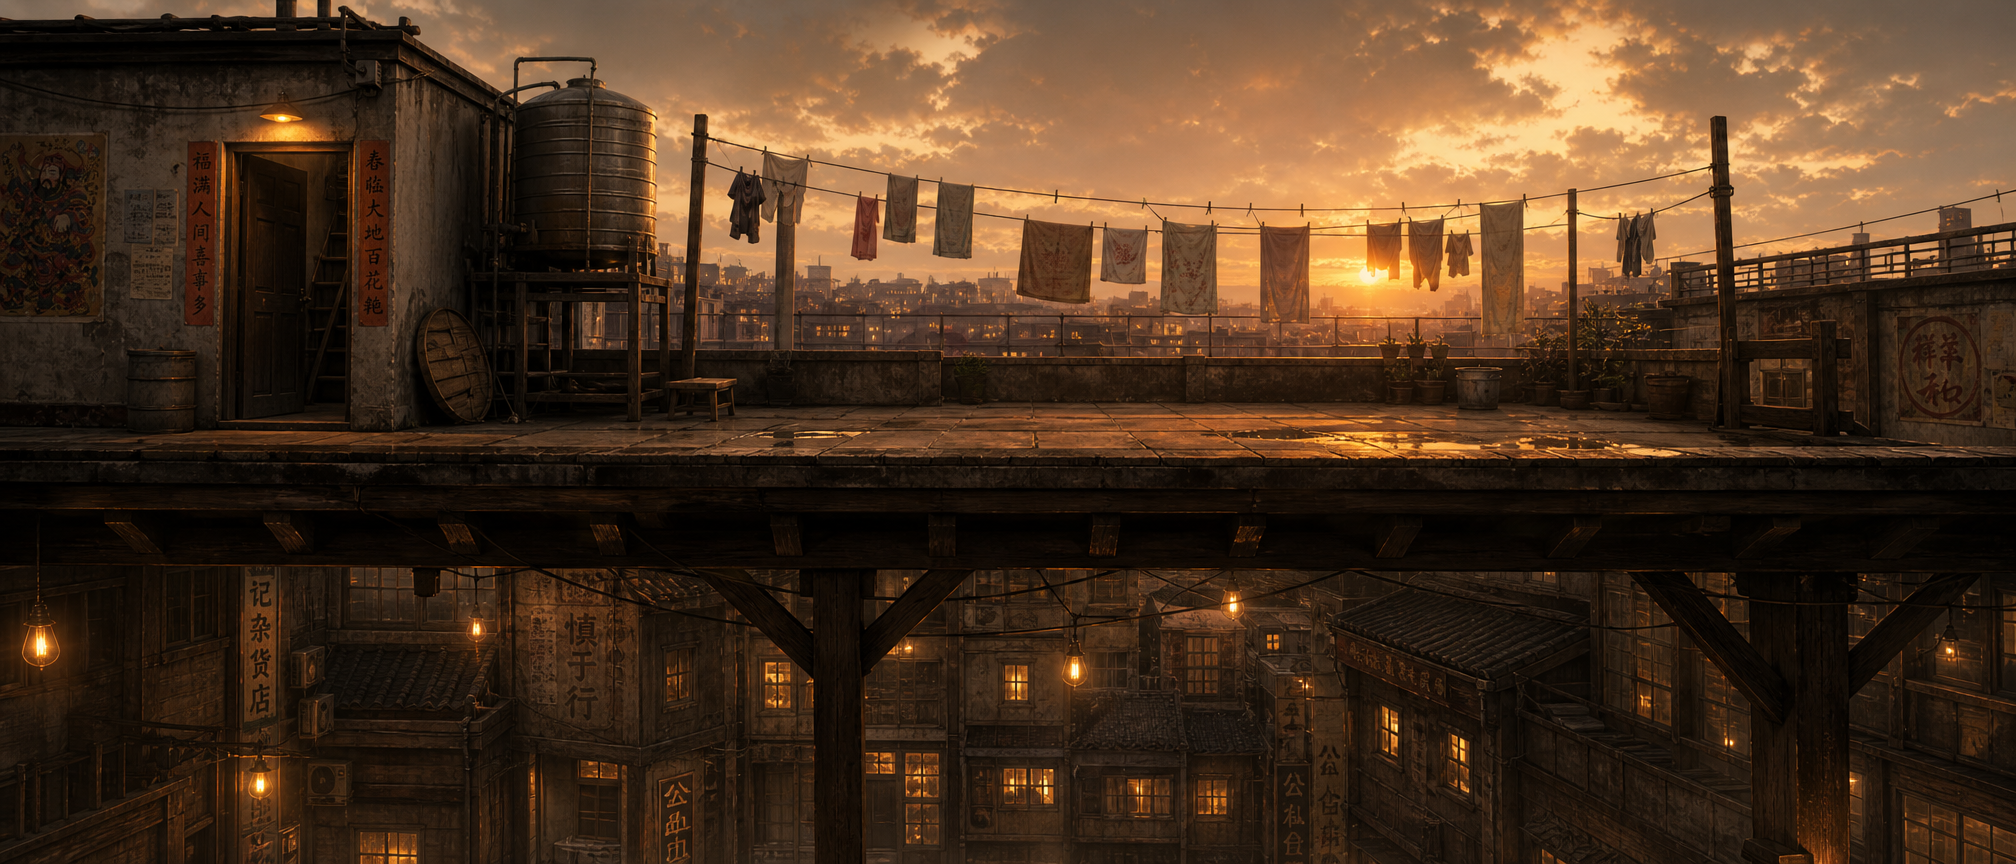
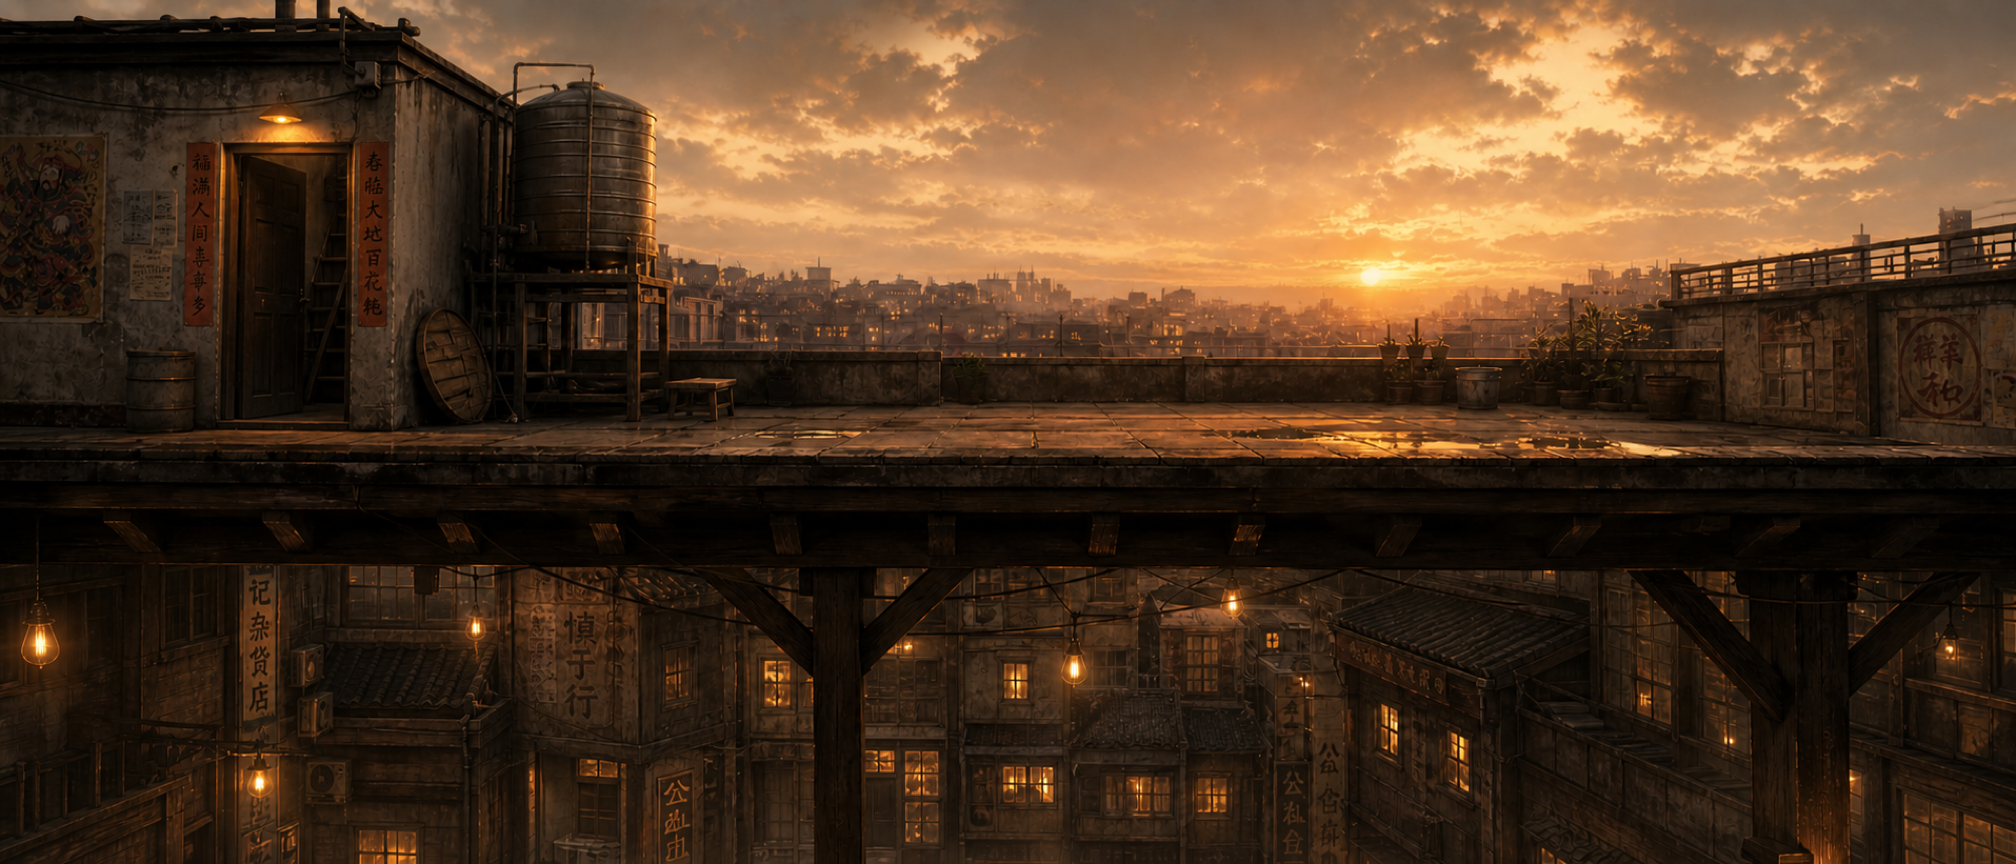
feat: remove rooftop laundry visuals

diff --git a/docs/art-bible/chapter3-asset-requirements.md b/docs/art-bible/chapter3-asset-requirements.md
@@ -86,7 +86,7 @@
 - `suitcase.png`：行李箱候选；
 - `wooden-box.png`：木箱候选，但造型更像木质储物箱，不是设计中的重型运输木箱；
 - `NotoSansCJKsc-Regular.otf`：中文字体，可继续使用；
-- 楼道、仓库、天台的大部分环境、门、踏板、床单、水箱、货架和城市远景由色块、线条和简单图形程序绘制。
+- 楼道、仓库、天台的大部分环境、门、踏板、水箱、货架和城市远景由色块、线条和简单图形程序绘制。
 
 严格按正式交付标准，当前情况是：
 
@@ -104,7 +104,7 @@
 | 高中姑娘 | 通用人偶染色 | 🟠 仅占位；独立角色和搬箱动作缺失 |
 | 楼道环境 | 楼梯、断梯、灯、墙等参考图 + 程序色块 | 🟡 有参考；0 套正式关卡资产 |
 | 仓库环境 | 背景、货架、木箱等参考图 + 程序色块 | 🟡 有参考；低洞、工具桌、职业史道具等缺失 |
-| 天台环境 | 天空、入口、水箱、衣物、铁门参考图 + 程序色块 | 🟡 有参考；城市视差、屋面模块、风摆和结尾组合缺失 |
+| 天台环境 | 天空、入口、水箱、铁门参考图 + 整景背景 | 🟡 有参考；城市视差、屋面模块和结尾组合缺失；晾衣物已取消 |
 | 牵挂线/VFX | 程序曲线、三档粗细 | 🟠 原型可用；Reveal、承重、坠落接住和远景线缺失 |
 | UI/字幕 | 字体、基础文本 HUD、前两章对话 UI | 🟠 部分可复用；正式弱化 UI 和动态按键提示未完成 |
 | 音乐/环境声/SFX | 两个旧工程音频文件，第三章未专门接入 | ❌ 第三章专用音频缺失 |
@@ -120,7 +120,6 @@
 | `broken-ladder.png` | 2048×2048，RGBA | Block A 断裂楼梯主体 | 🟡 | 拆成近端、断口、远端；补裸露钢筋和碎边；不能侵入 3.0m 净空及落脚区 |
 | `daughter-pipe.png` | 2048×2048，RGBA | 可作为低矮通道形体参考 | 🟡/❓ | 当前图是圆管剖面，正式设计是仓库梁下低洞；需先确认是否采用管道造型，不能直接替代低洞 |
 | `factory-background.png` | 3264×2448，RGB | Block B 旧仓库/纺织厂远景 | 🟡 | 改为横向分层背景；冷灰蓝调；移除与路线冲突的高亮；不得直接缩成单屏背景 |
-| `hanging-clothes.png` | 3840×2160，RGBA | Block C 衣物与床单库 | 🟡 | 超过 2048 最大边，必须拆件；晾衣绳、床单、衣服分层；至少提供静态和风摆循环；床单经过角色时可降至 45% 透明 |
 | `ladder.png` | 2048×2048，RGBA | 楼道完整楼梯/栏杆模块 | 🟡 | 拆成可拼接台阶、扶手和栏杆；匹配 32px/m；统一光源和断梯套件 |
 | `ladder-2.png` | 2048×2048，RGBA | 另一方向楼梯/高台连接参考 | 🟡 | 与 `ladder.png` 统一材质、比例和透视；确认是否确有反向模块需求 |
 | `light.png` | 1024×1024，RGBA | Block A 声控灯；Block B 工业灯 | 🟡 | 输出 `off/on` 两态和独立暖色光晕；灯体不随亮度变形；三盏楼道灯应共用一套资产 |
@@ -159,7 +158,7 @@
 - 现实时间色调：主灰蓝 `#3B4252` / `#4C566A`，地面 `#2E3440`；
 - 受控暖色：牵挂线 `#C0392B`、黄伞 `#E8B93E`、声控灯 `#D8A24A`；
 - 分层顺序：远景 → 中景建筑 → 可玩地形/道具 → 角色 → 前景遮挡 → 特效 → UI；
-- 牵挂线必须始终比晾衣绳、电线和墙缝更容易辨认，但不能像激光武器。
+- 牵挂线必须始终比电线和墙缝更容易辨认，但不能像激光武器。
 
 ### 5.2 角色比例与导出
 
@@ -176,7 +175,7 @@
 - 背景不要做成覆盖整关的一张超长图，应按可循环模块和视差层拆分；
 - 关键落脚点左右至少保留 0.8m 无视觉障碍；
 - A 段断梯净宽固定为 3.0m；
-- B 段低洞净高固定为 1.05m，床单、货架和管线不能改变净空读法；
+- B 段低洞净高固定为 1.05m，货架和管线不能改变净空读法；
 - B 段重箱终点中心为 `(39.0, 1.0)`；
 - C 段三级间隙均为 2.0m，不能靠美术延长平台导致普通跳跃跳关；
 - 所有前景遮挡必须有淡出策略，不能长时间挡住人物、落脚点或牵挂线。
@@ -355,31 +354,23 @@
 | `prop_ch03_rooftop_parapet_set` | 女儿墙/矮墙 | 基础段约 3.0×1.1m | `rooftop-entrance.png` 可参考 | ❌ 正式模块 |
 | `prop_ch03_rooftop_entry` | 天台入口小屋/门框 | 约 1.2×2.5m | `rooftop-entrance.png` | 🟡 |
 | `prop_ch03_rooftop_water_tank` | 主水箱 | 约 2.2×2.5m | `water-tank-1/2.png` | 🟡，需二选一 |
-| `prop_ch03_rooftop_clothesline_set` | 两层晾衣绳、支架、夹子 | 普通生活线，不可发红光 | `hanging-clothes.png` | 🟡 |
-| `prop_ch03_rooftop_sheet_01/02` | 两块关键床单 | 约 2.8×1.8m、3.0×1.9m | `hanging-clothes.png` | 🟡，需独立拆分 |
-| `prop_ch03_rooftop_clothes_set` | 衣服、裤子、围裙等 10–16 个变体 | 构图和风摆层 | `hanging-clothes.png` | 🟡，需精简和拆件 |
-| `prop_ch03_rooftop_wire_set` | 电线、拉直布边、支撑杆 | 与牵挂线形成视觉回收 | 无 | ❌ |
+| `prop_ch03_rooftop_wire_set` | 电线、支撑杆 | 与牵挂线形成视觉回收 | 无 | ❌ |
 | `prop_ch03_rooftop_exit_gate` | 顶层出口铁门 | 约 1.5×2.5m | `big-iron-gate.png` | 🟡/❓ 机关形式待定 |
 | `prop_ch03_last_box_open` | 最后一个未合严的纸箱 | 约 1.8×1.1m；不可推动 | 工程纸箱只能参考 | ❌ |
 | `prop_ch03_yellow_umbrella_pack_state` | 黄伞入箱后一角黄色 | 无任务高亮、无特写 | 工程已有伞候选 | ❌ 组合状态 |
 | `character_ch03_distant_people_set` | 远处具体人物剪影 | 3–5 组关系，不可做纯随机光点 | 无 | ❌ |
 | `effect_ch03_distant_tielines` | 远处其他人的线 | 只显示 0.8–1.2 秒，无 UI/对白 | 无 | ❌/⚙ |
-| `effect_ch03_rooftop_wind_haze` | 风、轻雾、衣物摆动辅助 | 克制、低密度 | 无 | ❌/⚙ |
+| `effect_ch03_rooftop_wind_haze` | 风与轻雾辅助 | 克制、低密度 | 无 | ❌/⚙ |
 
-### 9.2 晾衣物动画要求
+### 9.2 天台布景约束
 
-- 晾衣绳本体基本稳定，只做很小的受风弧度；
-- 普通衣物提供 6–10 帧循环，床单提供 8–12 帧循环；
-- 不同物件相位错开，避免所有衣物同步摆动；
-- 床单遮挡角色时，0.15–0.25 秒内淡到 45%，离开后平滑恢复；
-- 牵挂线被床单遮挡超过 0.35 秒时，应以柔和前景轮廓继续可读；
-- 牵挂线不能连接晾衣绳、水箱、门或任何场景物件。
+- 天台不再设置晾衣绳、床单或晾晒衣物；
+- 牵挂线不能连接水箱、门或任何场景物件。
 
 ### 9.3 天台音频
 
 - ❌ 天台持续风声，随高度略增强；
-- ❌ 床单和不同布料的风摆声；
-- ❌ 晾衣夹、金属杆、电线在风中的轻响；
+- ❌ 金属杆、电线在风中的轻响；
 - ❌ 水箱轻微金属共振/滴水声（低存在感）；
 - ❌ 逐级借线跃迁、承重、落地和回拉；
 - ❌ D063/D064 情感峰值前后的音乐让位/环境声变化；
@@ -537,7 +528,7 @@ audio_ch03_warehouse_crate_push_loop.ogg
 ### 14.1 图片
 
 - 默认 PNG、sRGB；透明素材必须有干净 Alpha；
-- 单个素材默认最大边 2048px；超长背景和 `hanging-clothes.png` 必须拆分；
+- 单个素材默认最大边 2048px；超长背景必须拆分；
 - 小道具不要无意义导出 2048×2048 大画布；
 - 背景如无需透明，可由技术确认使用 PNG/WebP；
 - 透明素材四周保留一致安全边，不留大片无效透明区域；
@@ -571,7 +562,7 @@ walk_001.png
 
 - BGM：建议 OGG 循环，提供明确 Loop Start/End；
 - 短音效：WAV 或经技术确认的 OGG；
-- 推箱、风声、衣物摆动等循环必须无爆音、无明显接缝；
+- 推箱、风声等循环必须无爆音、无明显接缝；
 - 音频文件峰值、响度和声道格式由技术统一，不能逐文件随意；
 - 每个文件附来源、作者、许可、录制/生成方式和后期处理说明。
 
@@ -614,7 +605,7 @@ Notes:
 1. 楼道墙面、报箱、杂物、扶手、声控灯；
 2. 仓库远景、货架、布卷、工具桌、职业史小道具、高中姑娘；
 3. 天空、城市视差、女儿墙、水箱、天台入口和出口；
-4. 晾衣绳、床单、衣物动画、风和远处其他人的线；
+4. 天台风、远处其他人的线和环境层次；
 5. 三段环境声和主 BGM/音乐层。
 
 ### P2：打磨与叙事细节
@@ -646,9 +637,9 @@ Notes:
 - [ ] 重箱明确“母亲能推、女儿推不动”，但不依赖文字标签；
 - [ ] 母亲失败→停顿→接受→承重的动画顺序完整；
 - [ ] C 段三级高度和 2.0m 间隙不会被装饰物误导；
-- [ ] 床单、衣服、水箱和前景不会挡住人物、落脚点和牵挂线；
+- [ ] 水箱和前景不会挡住人物、落脚点和牵挂线；
 - [ ] 门、踏板和木板的开关状态在保留时可明确辨认；
-- [ ] 普通晾衣绳、电线和牵挂线可以立即区分。
+- [ ] 普通电线和牵挂线可以立即区分。
 
 ### 16.3 技术与交付
 

diff --git a/game-chapter3/assets/chapter3_asset_manifest.md b/game-chapter3/assets/chapter3_asset_manifest.md
@@ -1,6 +1,6 @@
 # 第三章现有素材接入清单
 
-第三章的 28 张候选 PNG 已复制或处理后保存到 `game-chapter3/assets/`，并使用英文资源名。Godot 通过当前工程内的 `res://assets/...` 直接访问，不依赖个人 Downloads 路径、仓库根素材目录或外部软链接。当前 10 张用于游戏画面，18 张仅保留为候选参考。原有 3 张楼梯/断梯图片因透视、比例和现有关卡结构不匹配，已从工程整体移除。
+第三章的 27 张候选 PNG 已复制或处理后保存到 `game-chapter3/assets/`，并使用英文资源名。Godot 通过当前工程内的 `res://assets/...` 直接访问，不依赖个人 Downloads 路径、仓库根素材目录或外部软链接。当前 10 张用于游戏画面，17 张仅保留为候选参考。原有 3 张楼梯/断梯图片因透视、比例和现有关卡结构不匹配，已从工程整体移除。
 
 ## 当前使用范围
 
@@ -25,7 +25,6 @@
 | 用户提供的天台整景图 | `environments/chapter3/rooftop/environment_ch03_rooftop_full_scene.png` | 第三关完整背景；以原始尺寸沿世界横向重复，保持随镜头滚动 |
 | `sky.png` | `environments/chapter3/rooftop/environment_ch03_rooftop_sky.png` | 候选参考；已由天台整景图替换 |
 | `rooftop-entrance.png` | `environments/chapter3/rooftop/environment_ch03_rooftop_entrance.png` | 候选参考；整景图已包含入口和水箱 |
-| `hanging-clothes.png` | `environments/chapter3/rooftop/environment_ch03_rooftop_hanging_clothes.png` | 候选参考；整张构图遮挡人物与牵挂线，拆件前停用 |
 | `water-tank-1.png` | `props/chapter3/prop_ch03_rooftop_water_tank_low.png` | 候选参考；整景图已包含水箱 |
 | `water-tank-2.png` | `props/chapter3/prop_ch03_rooftop_water_tank_high.png` | 候选参考；会误导为可攀爬平台，运行时停用 |
 | `big-iron-gate.png` | `props/chapter3/prop_ch03_rooftop_exit_gate.png` | 天台终门视觉层 |

diff --git a/game-chapter3/README.md b/game-chapter3/README.md
@@ -13,11 +13,12 @@
 - 母亲推动重箱、女儿通过低矮通道；
 - 断裂木板、高低平台、箱子垫脚、双踏板闩锁门；
 - 分段检查点、坠落恢复、关卡完成横幅与第三章寄语结尾；
-- 复用前两章的人物、黄伞、行李和木箱素材，并补齐楼道声控灯、信箱、仓库货架、天台水箱与低干扰晾晒物等场景表现；
-- 22 张第三章候选素材已归档到工程自己的 `game-chapter3/assets/`，其中 16 张用于运行时画面；不依赖工程目录之外的素材或软链接；
+- 复用前两章的人物、黄伞、行李和木箱素材，并补齐楼道声控灯、信箱、仓库货架与天台水箱等场景表现；
+- 27 张第三章候选素材已归档到工程自己的 `game-chapter3/assets/`，其中 10 张用于运行时画面；不依赖工程目录之外的素材或软链接；
 - 仓库新增四张服装设计稿和一组布料架，强化余秀兰的纺织职业经历；原有高噪声货架已停止渲染；
-- 暖色楼道窗、圆管低洞、整张晾衣物合成图、第二个高架水箱和两张旧货架因不符合当前场景或会误导玩法而停用，原文件只保留作候选参考；
-- 不依赖新生成素材，现有候选图仍需在正式发行前补齐来源与授权。
+- 暖色楼道窗、圆管低洞、第二个高架水箱和两张旧货架因不符合当前场景或会误导玩法而停用，原文件只保留作候选参考；
+- 天台不再使用晾衣绳、床单或晾晒衣物，场景节点、候选素材和整景背景中的对应元素均已移除；
+- 天台整景背景已基于现有构图清理晾衣元素；现有候选图及处理后背景仍需在正式发行前补齐来源与授权。
 
 ## 场景结构
 
